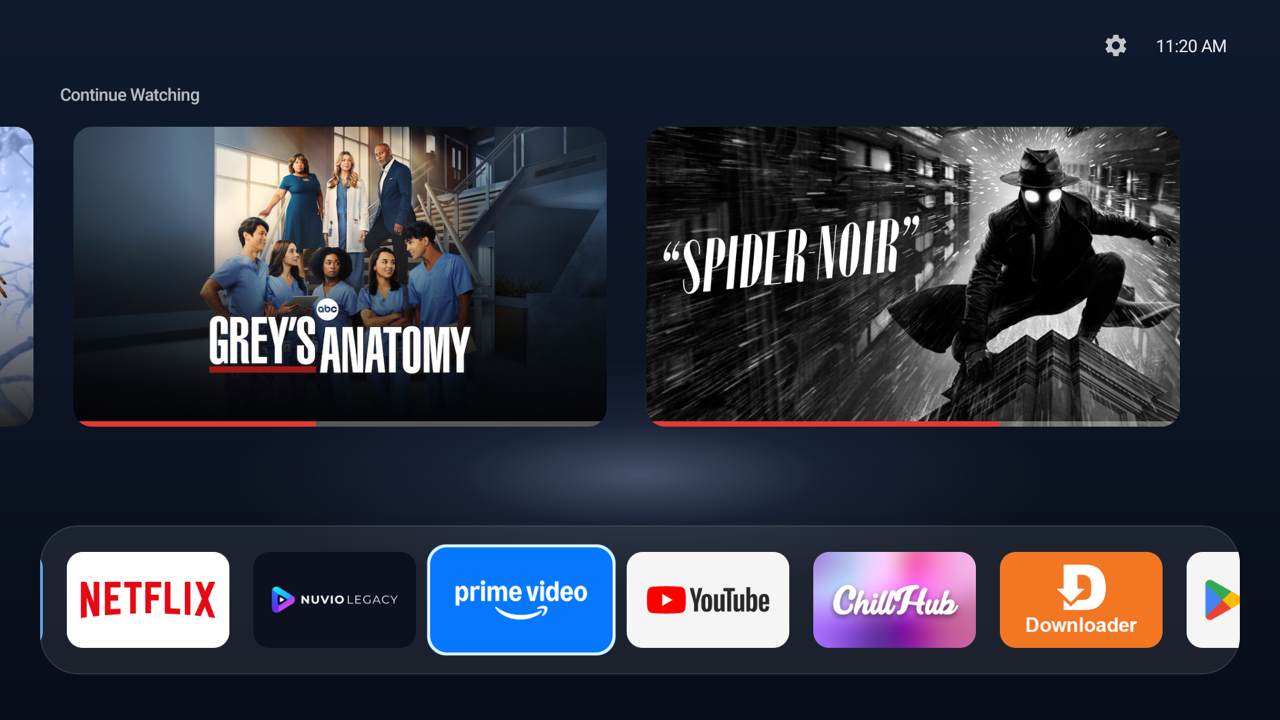
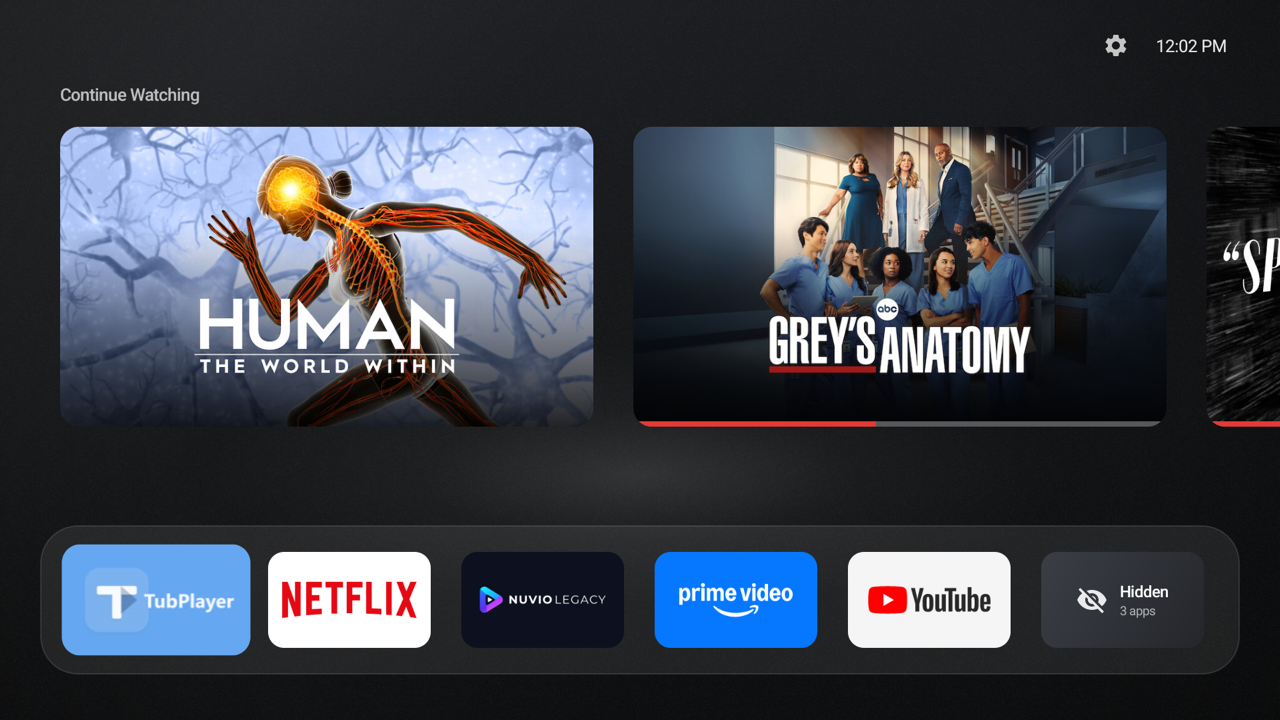
Six-tile dock with whole-tile paging, Hidden tile design, matte textured background

diff --git a/src/com/sghmire/flow/HomeActivity.java b/src/com/sghmire/flow/HomeActivity.java
@@ -74,6 +74,9 @@ public class HomeActivity extends Activity {
 
     private static final DecelerateInterpolator EASE_OUT = new DecelerateInterpolator(2f);
 
+    private static final int DOCK_PER_VIEW = 6;
+    private static final int DOCK_TILE_W = 122;
+
     private final Handler main = new Handler(Looper.getMainLooper());
     private final ExecutorService io = Executors.newSingleThreadExecutor();
     private ImageLoader images;
@@ -337,7 +340,6 @@ public class HomeActivity extends Activity {
         dockRow.setGravity(Gravity.CENTER_VERTICAL);
         dockRow.setClipChildren(false);
         dockRow.setClipToPadding(false);
-        dockRow.setPadding(px(20), 0, px(20), 0);
         dockScroll.addView(dockRow, new FrameLayout.LayoutParams(
                 ViewGroup.LayoutParams.WRAP_CONTENT, ViewGroup.LayoutParams.MATCH_PARENT));
         dock.addView(dockScroll, new FrameLayout.LayoutParams(
@@ -446,20 +448,27 @@ public class HomeActivity extends Activity {
         }
         dockRow.removeAllViews();
         View toFocus = null;
+        List<View> tiles = new ArrayList<>();
         for (AppEntry app : apps) {
             View tile = appTile(app);
-            LinearLayout.LayoutParams lp = new LinearLayout.LayoutParams(px(122), px(72));
-            lp.leftMargin = px(9);
-            lp.rightMargin = px(9);
-            dockRow.addView(tile, lp);
+            tiles.add(tile);
             if (app.pkg.equals(focusedPkg)) toFocus = tile;
         }
-        if (!hidden.isEmpty()) {
-            View tile = hiddenAppsTile(hidden);
-            LinearLayout.LayoutParams lp = new LinearLayout.LayoutParams(px(122), px(72));
-            lp.leftMargin = px(9);
-            lp.rightMargin = px(9);
-            dockRow.addView(tile, lp);
+        if (!hidden.isEmpty()) tiles.add(hiddenAppsTile(hidden));
+
+        // Exactly six tiles fit across the dock; fewer than six sit centered.
+        int viewW = getResources().getDisplayMetrics().widthPixels - px(60);
+        int tileW = px(DOCK_TILE_W), side = px(26);
+        int gap = (viewW - 2 * side - DOCK_PER_VIEW * tileW) / (DOCK_PER_VIEW - 1);
+        int n = tiles.size();
+        int used = n * tileW + Math.max(0, n - 1) * gap;
+        int left = n < DOCK_PER_VIEW ? (viewW - used) / 2 : side;
+        dockRow.setPadding(left, 0, side, 0);
+        dockScroll.setPaging(tileW + gap, DOCK_PER_VIEW);
+        for (int i = 0; i < n; i++) {
+            LinearLayout.LayoutParams lp = new LinearLayout.LayoutParams(tileW, px(72));
+            lp.rightMargin = i < n - 1 ? gap : 0;
+            dockRow.addView(tiles.get(i), lp);
         }
         if (toFocus != null) toFocus.requestFocus();
         else if (dockRow.getChildCount() > 0 && (firstAppsLoad || getCurrentFocus() == null)) {
@@ -481,7 +490,7 @@ public class HomeActivity extends Activity {
             iv.setImageDrawable(app.banner);
             tile.addView(iv, match());
         } else {
-            tile.setBackground(new ColorDrawable(0xFF27324A));
+            tile.setBackground(new ColorDrawable(0xFF2A2C30));
             LinearLayout col = new LinearLayout(this);
             col.setOrientation(LinearLayout.VERTICAL);
             col.setGravity(Gravity.CENTER);
@@ -586,7 +595,7 @@ public class HomeActivity extends Activity {
         float radius = px(14);
         FrameLayout card = new FrameLayout(this);
         card.setFocusable(true);
-        card.setBackground(new ColorDrawable(0xFF1B2538));
+        card.setBackground(new ColorDrawable(0xFF1E2023));
         card.setContentDescription(item.title);
         roundCorners(card, radius);
 
@@ -675,7 +684,7 @@ public class HomeActivity extends Activity {
         lastArt = art;
         lastFill = fill;
         lastRadius = cornerRadius;
-        int bg = fill ? Color.BLACK : HeroView.edgeColor(art, 0xFF1B2538);
+        int bg = fill ? Color.BLACK : HeroView.edgeColor(art, 0xFF1E2023);
         lastBg = bg;
         RectF r = boundsOf(from);
         hero.prepare(art, bg, fill, r, cornerRadius * from.getScaleX());
@@ -928,7 +937,7 @@ public class HomeActivity extends Activity {
     }
 
     int brandColorFor(String pkg) {
-        return HeroView.edgeColor(bannerFor(pkg), 0xFF1B2538);
+        return HeroView.edgeColor(bannerFor(pkg), 0xFF1E2023);
     }
 
     // ---------------------------------------------------------------- Hiding apps
@@ -965,17 +974,34 @@ public class HomeActivity extends Activity {
         float radius = px(12);
         FrameLayout tile = new FrameLayout(this);
         tile.setFocusable(true);
-        GradientDrawable bg = new GradientDrawable();
-        bg.setCornerRadius(radius);
-        bg.setColor(0x1FFFFFFF);
-        bg.setStroke(Math.max(1, px(1)), 0x33FFFFFF);
+        roundCorners(tile, radius);
+        // Styled like an app banner so it sits naturally in the dock.
+        GradientDrawable bg = new GradientDrawable(GradientDrawable.Orientation.TL_BR,
+                new int[] {0xFF3B3E45, 0xFF24262B});
         tile.setBackground(bg);
-        TextView t = new TextView(this);
-        t.setText("Hidden apps\n" + hidden.size());
-        t.setGravity(Gravity.CENTER);
-        t.setTextColor(0xCCFFFFFF);
-        t.setTextSize(TypedValue.COMPLEX_UNIT_SP, 12);
-        tile.addView(t, match());
+        LinearLayout content = new LinearLayout(this);
+        content.setOrientation(LinearLayout.HORIZONTAL);
+        content.setGravity(Gravity.CENTER);
+        ImageView icon = new ImageView(this);
+        icon.setImageResource(R.drawable.ic_hidden);
+        icon.setAlpha(0.9f);
+        content.addView(icon, new LinearLayout.LayoutParams(px(24), px(24)));
+        LinearLayout text = new LinearLayout(this);
+        text.setOrientation(LinearLayout.VERTICAL);
+        text.setPadding(px(9), 0, 0, 0);
+        TextView title = new TextView(this);
+        title.setText("Hidden");
+        title.setTextColor(Color.WHITE);
+        title.setTextSize(TypedValue.COMPLEX_UNIT_SP, 14);
+        title.setTypeface(Typeface.create("sans-serif-medium", Typeface.NORMAL));
+        text.addView(title);
+        TextView count = new TextView(this);
+        count.setText(hidden.size() == 1 ? "1 app" : hidden.size() + " apps");
+        count.setTextColor(0x99FFFFFF);
+        count.setTextSize(TypedValue.COMPLEX_UNIT_SP, 11);
+        text.addView(count);
+        content.addView(text);
+        tile.addView(content, match());
         attachFocusEffect(tile, 1.16f);
         tile.setOnClickListener(v -> {
             CharSequence[] names = new CharSequence[hidden.size()];

diff --git a/src/com/sghmire/flow/BackdropView.java b/src/com/sghmire/flow/BackdropView.java
@@ -2,6 +2,7 @@ package com.sghmire.flow;
 
 import android.content.Context;
 import android.graphics.Bitmap;
+import android.graphics.BitmapShader;
 import android.graphics.Canvas;
 import android.graphics.LinearGradient;
 import android.graphics.Paint;
@@ -9,27 +10,19 @@ import android.graphics.RadialGradient;
 import android.graphics.Shader;
 import android.view.View;
 
-/** Dark navy gradient with a soft light pool above the app dock, like ChillHub's backdrop. */
+import java.util.Random;
+
+/**
+ * Matte dark backdrop: near-black charcoal with a fine light grain, a soft diagonal sheen from
+ * the top-left, a gentle light pool above the dock and darker edges.
+ */
 public class BackdropView extends View {
-    private final Paint base = new Paint();
-    private final Paint glow = new Paint(Paint.ANTI_ALIAS_FLAG);
-    /** Gradients are rasterised once; per-frame GPU work is then a single texture blit. */
+    /** Gradients and grain are rasterised once; per-frame GPU work is then a single texture blit. */
     private Bitmap cached;
 
     public BackdropView(Context context) {
         super(context);
         setWillNotDraw(false);
-    }
-
-    @Override
-    protected void onSizeChanged(int w, int h, int oldw, int oldh) {
-        base.setShader(new LinearGradient(0, 0, 0, h,
-                new int[] {0xFF101A2E, 0xFF0C1424, 0xFF080D18},
-                new float[] {0f, 0.55f, 1f}, Shader.TileMode.CLAMP));
-        float r = w * 0.32f;
-        glow.setShader(new RadialGradient(w / 2f, h * 0.66f, r,
-                new int[] {0x55B8CCFF, 0x1A8FA8E0, 0x00000000},
-                new float[] {0f, 0.45f, 1f}, Shader.TileMode.CLAMP));
     }
 
     @Override
@@ -43,11 +36,49 @@ public class BackdropView extends View {
         canvas.drawBitmap(cached, 0, 0, null);
     }
 
-    private void paint(Canvas canvas, int w, int h) {
-        canvas.drawRect(0, 0, w, h, base);
-        canvas.save();
-        canvas.scale(1f, 0.28f, w / 2f, h * 0.66f);
-        canvas.drawCircle(w / 2f, h * 0.66f, w * 0.32f, glow);
-        canvas.restore();
+    private static void paint(Canvas c, int w, int h) {
+        Paint p = new Paint(Paint.ANTI_ALIAS_FLAG | Paint.DITHER_FLAG);
+
+        p.setShader(new LinearGradient(0, 0, 0, h,
+                new int[] {0xFF17181B, 0xFF111214, 0xFF0C0D0E},
+                new float[] {0f, 0.55f, 1f}, Shader.TileMode.CLAMP));
+        c.drawRect(0, 0, w, h, p);
+
+        // Soft sheen falling in from the top-left.
+        p.setShader(new LinearGradient(0, 0, w * 0.55f, h * 0.9f,
+                new int[] {0x16FFFFFF, 0x06FFFFFF, 0x00FFFFFF},
+                new float[] {0f, 0.45f, 1f}, Shader.TileMode.CLAMP));
+        c.drawRect(0, 0, w, h, p);
+
+        // Faint light pool above the dock.
+        float cx = w / 2f, cy = h * 0.66f;
+        c.save();
+        c.scale(1f, 0.3f, cx, cy);
+        p.setShader(new RadialGradient(cx, cy, w * 0.34f,
+                new int[] {0x22FFFFFF, 0x0AFFFFFF, 0x00FFFFFF},
+                new float[] {0f, 0.5f, 1f}, Shader.TileMode.CLAMP));
+        c.drawCircle(cx, cy, w * 0.34f, p);
+        c.restore();
+
+        // Darker edges.
+        p.setShader(new RadialGradient(w / 2f, h / 2f, (float) Math.hypot(w, h) * 0.6f,
+                new int[] {0x00000000, 0x00000000, 0x73000000},
+                new float[] {0f, 0.55f, 1f}, Shader.TileMode.CLAMP));
+        c.drawRect(0, 0, w, h, p);
+
+        // Fine light grain for a matte, slightly textured finish.
+        p.setShader(new BitmapShader(grain(), Shader.TileMode.REPEAT, Shader.TileMode.REPEAT));
+        c.drawRect(0, 0, w, h, p);
+    }
+
+    private static Bitmap grain() {
+        int size = 256;
+        int[] px = new int[size * size];
+        Random r = new Random(7);
+        for (int i = 0; i < px.length; i++) {
+            int a = r.nextInt(100) < 55 ? r.nextInt(9) : 0;
+            px[i] = (a << 24) | 0xFFFFFF;
+        }
+        return Bitmap.createBitmap(px, size, size, Bitmap.Config.ARGB_8888);
     }
 }

diff --git a/src/com/sghmire/flow/RowScrollView.java b/src/com/sghmire/flow/RowScrollView.java
@@ -20,6 +20,8 @@ public class RowScrollView extends HorizontalScrollView {
     private int target;
     private boolean running;
     private long lastFrameNanos;
+    /** When set, the row scrolls in whole-tile steps so exactly {@code perView} tiles show. */
+    private int step, perView;
 
     private final Runnable frame = this::step;
 
@@ -54,6 +56,14 @@ public class RowScrollView extends HorizontalScrollView {
         int t;
         if (anchorStart) {
             t = left - pad;
+        } else if (step > 0 && content instanceof android.view.ViewGroup) {
+            int index = ((android.view.ViewGroup) content).indexOfChild(focused);
+            int count = ((android.view.ViewGroup) content).getChildCount();
+            int first = Math.round((running ? target : getScrollX()) / (float) step);
+            if (index < first) first = index;
+            if (index > first + perView - 1) first = index - perView + 1;
+            first = Math.max(0, Math.min(Math.max(0, count - perView), first));
+            t = first * step;
         } else {
             // Measure against where the spring is heading, not where it is mid-flight.
             int x = running ? target : getScrollX();
@@ -94,6 +104,11 @@ public class RowScrollView extends HorizontalScrollView {
         }
         scrollTo(Math.round(pos), 0);
         postOnAnimation(frame);
+    }
+
+    public void setPaging(int step, int perView) {
+        this.step = step;
+        this.perView = perView;
     }
 
     public void reset() {

diff --git a/src/com/sghmire/flow/RecentsOverlay.java b/src/com/sghmire/flow/RecentsOverlay.java
@@ -34,7 +34,7 @@ public class RecentsOverlay extends FrameLayout {
         }
     }
 
-    static final int BACKDROP = 0xF2060A14;
+    static final int BACKDROP = 0xF20C0D0F;
 
     private static final DecelerateInterpolator EASE = new DecelerateInterpolator(2f);
 
